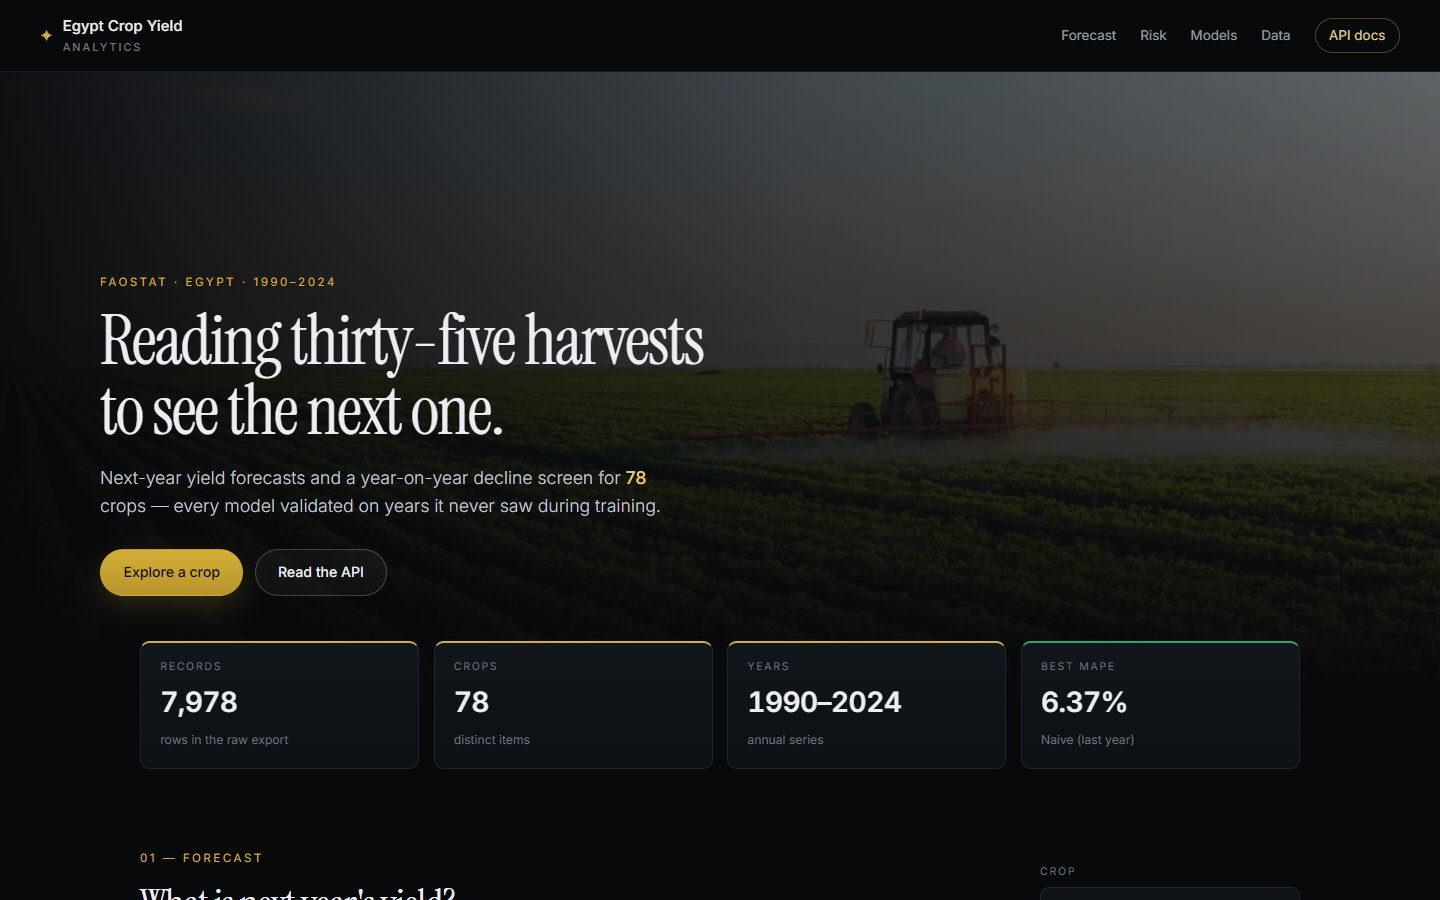
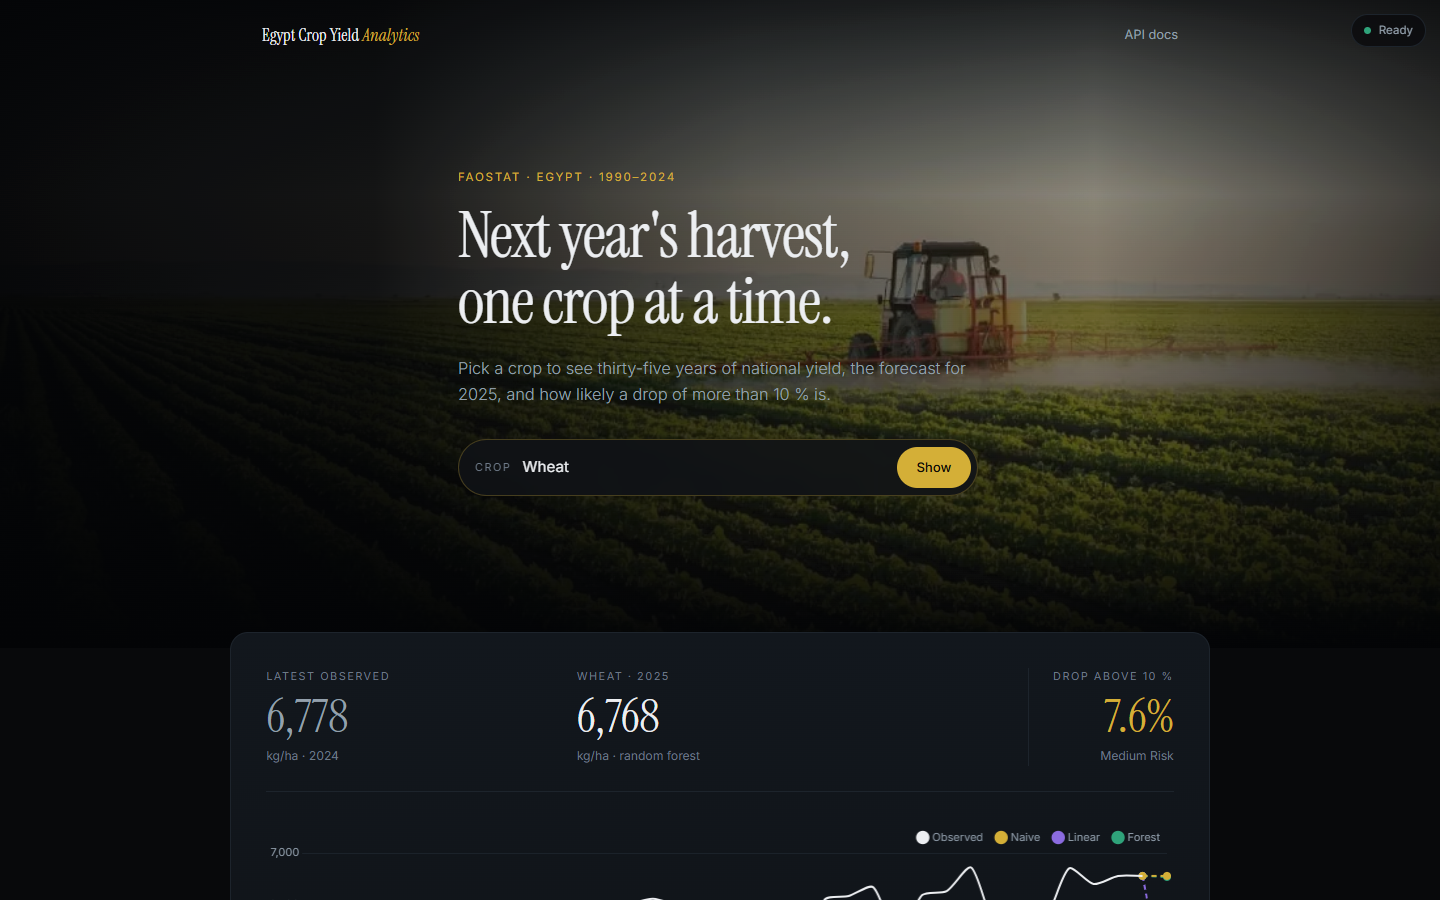
docs: refresh live screenshots, log the simplification and its cost

diff --git a/scripts/check_ui.py b/scripts/check_ui.py
@@ -24,7 +24,11 @@ def check(label: str, condition: bool, detail: str = "") -> None:
 
 
 def wait_ready(page) -> None:
-    page.wait_for_function("document.getElementById('status').dataset.state === 'ready'")
+    # A deployed instance may be waking from zero, so give it room.
+    page.set_default_timeout(120_000)
+    page.wait_for_function(
+        "document.getElementById('status').dataset.state === 'ready'", timeout=120_000
+    )
 
 
 def main() -> None:

diff --git a/docs/WORKLOG.md b/docs/WORKLOG.md
@@ -261,3 +261,41 @@ https://github.com/mohamed-sherif-data/egypt-crop-analytics   source
 ```
 
 `py -m pytest -q` → 33 passed. Nothing outside `legacy/` mentions Streamlit.
+
+## 2026-11-18 — Simplified to one page, one job
+
+Feedback: the interface had too many features and the design did not land. The
+diagnosis was not "add polish" but "remove surface area": five sections, a
+12-row ranking, a model table with a second chart, a dataset report and a
+three-slider scorer all competed for the same attention, and the hero
+photograph was buried under a flat dark wash.
+
+What the page does now: pick a crop → latest year, forest forecast, chance of a
+drop above 10 %, one chart, one honest note.
+
+Removed: KPI strip, ranking table (and the row-click behaviour that went with
+it), model table + MAPE chart, dataset panel, scenario scorer, the Arabic
+annotation layer added the day before. The ranking, scoring and metrics
+endpoints stay in the API — that is the product; the page is one view of it.
+
+Design changes that came with the cut:
+
+- the hero photo is visible again: a horizontal scrim (dark left, open right)
+  instead of a uniform overlay, with a faint gold cast so it sits in the palette
+- the answer card is one surface: three numbers, a chart, a model strip
+- the status pill hides itself 2.6 s after the API is ready
+- the headline forecast is the random forest, so the page is not showing the
+  same number twice as "latest" and "forecast"; the note states plainly that
+  the naive baseline still wins on held-out years
+- the caption explains why the linear branch reads low (it regresses toward
+  the long-run average) instead of leaving a dramatic-looking drop unexplained
+
+Verified with `scripts/check_ui.py` against the deployed host — 14 assertions,
+all passing: it opens on Wheat, the numbers fill, switching to Maize reloads
+the panel and the address bar, an unknown crop clears to `—` and says why,
+`?crop=Rice` opens directly, nothing overflows a 390×844 viewport, and no
+request fails.
+
+Deploy cost, measured: `modal deploy` finished in 4.9 s and rebuilt nothing —
+`web/` and `api/` are mounted local files, so only a few kB moved.
+
